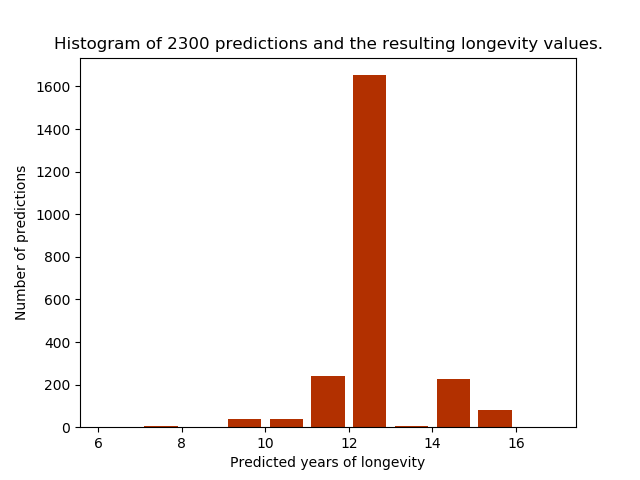
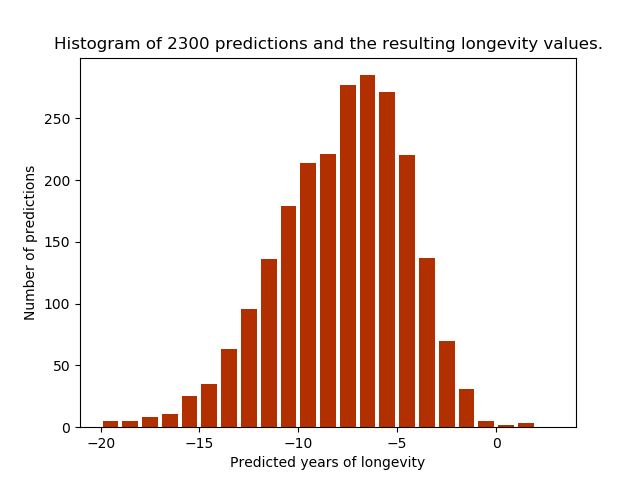
given up on data preprocessing with minmaxscaler as it seems to gradually worsen results for each run. maybe it sticks around every loop?

diff --git a/root/webinterface/templates/index.html b/root/webinterface/templates/index.html
@@ -2,7 +2,7 @@
 <html lang="en">
     <head>
         <meta charset="UTF-8">
-        <title>Mastern</title>
+        <title>H A L E S</title>
         <link rel="stylesheet" type="text/css" href="{{ url_for('static', filename='main.css') }}">
         <link href='https://fonts.googleapis.com/css?family=Roboto:300' rel='stylesheet' type='text/css'>
         <link href='https://fonts.googleapis.com/css?family=Roboto+Condensed' rel='stylesheet' type='text/css'>

diff --git a/root/webinterface/run.py b/root/webinterface/run.py
@@ -164,14 +164,13 @@ def single_target_prediction():
     print('LINWEAR (linear wear of the plastic in the cup) P values of significance per feature:',
           ml.feature_significance(dth.prune_features(dth.Data.unprocessed_target), 'linwear'))
 
+    counter, r2, equation_list = 0, 0.0, {}
 
     # FOR ACTUAL USE
     if not Data.recalibrate:
-        counter, r2 = 0, 0.0
-
         for x in range(2300):
             # prediction_result, r2 = ml.target_predict_decision_tree(target, Data.recalibrate)
-            prediction_result, r2 = ml.target_predict_linear(target, Data.recalibrate)
+            prediction_result, r2, equation = ml.target_predict_linear(target, Data.recalibrate)
             r2 = float(r2)
             if r2_list:
                 if r2 > max(r2_list):
@@ -179,6 +178,7 @@ def single_target_prediction():
             r2_list.append(r2)
             prediction_results_list.append(float(prediction_result))
             counter += 1
+            equation_list[r2] = equation
             if Data.stop_process:
                 print('Process stopped, system made ', len(prediction_results_list), ' predictions')
                 break
@@ -199,6 +199,16 @@ def single_target_prediction():
         prediction_result, r2 = ml.target_predict_decision_tree(target, Data.recalibrate)
         prediction = pd.DataFrame({'Actual': target['years in vivo'], 'Predicted': prediction_result})
         result = format_results_to_html(prediction, r2)
+
+    """  Prints the multiple regression equation (at least the coefficients), need to add values of regressors as well.
+    print(equation_list)
+    linear_equation = 'Y = '
+    for var in equation_list[max(r2_list)]:
+        if 'coefficient' in var:
+            linear_equation += ' + %.2f' % var['coefficient'] + ' x '
+        if 'regressor' in var:
+            linear_equation += var['regressor']
+    """
 
     return result
 

diff --git a/root/webinterface/modules/ml.py b/root/webinterface/modules/ml.py
@@ -10,7 +10,7 @@ import numpy as np
 
 dth = datahandler
 graph = graph_factory
-scaler = MinMaxScaler()
+
 
 
 class Data:
@@ -161,14 +161,17 @@ def target_predict_mlp(target, recalibrate=False, count=0):
 
 
 def target_predict_linear(target, recalibrate=False, count=0):
-    vivo_scaler = MinMaxScaler()
+    # Commented out lines are data preprocessing using minmaxscaler to align all values in the dataframe as they can
+    # differ quite a lot.
+    # vivo_scaler, scaler = MinMaxScaler(), MinMaxScaler()
     df = dth.prune_features(dth.Data.unprocessed_dataframe)
-    tgt = target
+    # tgt = target
     # df[list(df)] = scaler.fit_transform(df[list(df)])
     # vivo_scaler.fit(tgt['years in vivo'].values.reshape(-1, 1))
     # tgt[list(tgt)] = scaler.transform(tgt[list(tgt)])
 
     x_train, x_test, y_train, y_test = split_dataset_into_train_test(df, 'years in vivo', recalibrate=False)
+    # target_pred = tgt.drop('years in vivo', axis=1)
     target_pred = target.drop('years in vivo', axis=1)
     r2 = 0.0
 
@@ -202,7 +205,13 @@ def target_predict_linear(target, recalibrate=False, count=0):
         r2 = metrics.r2_score(y_true, r2_pred)
 
     adjusted_r_squared = 1 - (1 - r2) * (len(y_train) - 1) / (len(y_train) - x_train.shape[1] - 1)
-    return prediction, adjusted_r_squared
+
+    equation = [regressor.intercept_]
+    for x, reg in enumerate(x_train.columns):
+        equation.append({'regressor': reg})
+        equation.append({'coefficient': regressor.coef_[x]})
+
+    return prediction, adjusted_r_squared, equation
 
 
 def leave_one_out(control_group=False):
